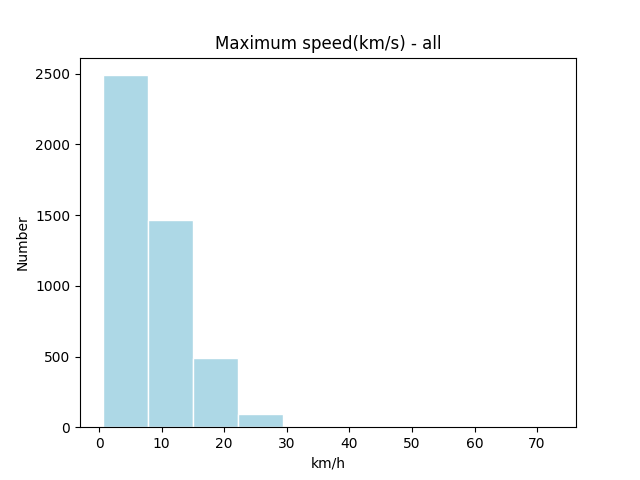
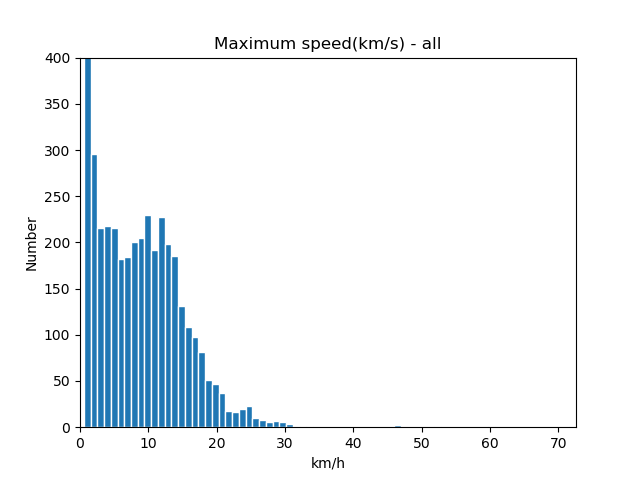
Time: 2019-09-20 11:07:19

diff --git a/preprocessing.py b/preprocessing.py
@@ -6,7 +6,7 @@
 @Github: https://github.com/isLouisHsu
 @E-mail: is.louishsu@foxmail.com
 @Date: 2019-09-19 11:01:14
-@LastEditTime: 2019-09-19 21:25:07
+@LastEditTime: 2019-09-20 10:30:51
 @Update: 
 '''
 import os
@@ -102,7 +102,7 @@ def calFeaturesOfSequence(seq, speedThresh=IDLETHRESH, maxIdle=180, dwtTime=1):
     index = np.r_[1, isIdle[1:] - isIdle[:-1]]      # 负跳变(-1)：从怠速起步
     idxStart = np.where(index == -1)[0][0]          # 起步时间
 
-    if idxStart > maxIdle:                          # 剪裁速度值序列
+    if idxStart > maxIdle:                          # 怠速时间超过180s，剪裁速度值序列
         seq = seq[maxIdle: ]             
         idxStart -= maxIdle
 
@@ -114,18 +114,13 @@ def calFeaturesOfSequence(seq, speedThresh=IDLETHRESH, maxIdle=180, dwtTime=1):
     accelerate = accelerate[idxStart:]
 
     feature = []
-    feature += [n_sec]                              # 时长(s)
-    feature += [n_dist]                             # 距离(m)
     
-    feature += [idxStart / n_sec]                   # 怠速时间比(%)
+    feature += [seq.max()]                          # 峰值速度(m/s)
+    feature += [n_dist / (n_sec - idxStart)]        # 平均速度(m/s)
+    feature += [seq.std()]                          # 速度标准差
 
     feature += [np.where(accelerate > 0.)[0].shape[0]]  # 加速时间(s)
     feature += [np.where(accelerate < 0.)[0].shape[0]]  # 减速时间(s)
-    
-    feature += [seq.max()]                          # 峰值速度(m/s)
-    feature += [n_dist / n_sec]                     # 平均运行速度(m/s)
-    feature += [n_dist / (n_sec - idxStart)]        # 平均速度(m/s)
-    feature += [seq.std()]                          # 速度标准差
 
     feature += [accelerate.max()]                   # 峰值加速度
     feature += [accelerate.min()]                   # 峰值减速度
@@ -137,6 +132,12 @@ def calFeaturesOfSequence(seq, speedThresh=IDLETHRESH, maxIdle=180, dwtTime=1):
     feature += [temp.mean()]                        # 平均减速度
     feature += [temp.std()]                         # 减速度标准差
     
+    feature += [n_sec - idxStart]                   # 运行时间(s)
+    # feature += [n_sec]                              # 时长(s)
+    # feature += [n_dist]                             # 距离(m)
+    feature += [idxStart / n_sec]                   # 怠速时间比(%)
+    feature += [n_dist / n_sec]                     # 平均运行速度(m/s)
+    
     feature = np.array(feature)
     return feature
 
@@ -144,6 +145,9 @@ if __name__ == "__main__":
 
     # filename = 'data/temp.xlsx'
 
+    plt.figure()
+    plt.title("Histogram of Speed")
+    
     for i in range(1, 4):
         
         filename = 'data/file%d.xlsx' % i
@@ -151,16 +155,29 @@ if __name__ == "__main__":
         print(i, data.shape)
         
         timestamp, gpsSpeed = data[:, 0], data[:, 1]
+
+        plt.subplot(3, 1, i)
+        plt.xlabel("km/h")
+        plt.ylabel("Number")
+        plt.hist(gpsSpeed, edgecolor='white')
+
         # gpsSpeed = dwtDecompose(gpsSpeed, 2)
 
-        gpsSpeedSeq = cutSpeedSequences(timestamp, gpsSpeed)
-        np.save('output/gpsSpeedSequences_file%d.npy' % i, gpsSpeedSeq)
+        print("Cutting sequences...")
+        if os.path.exists('output/gpsSpeedSequences_file%d.npy' % i):
+            gpsSpeedSeq = np.load('output/gpsSpeedSequences_file%d.npy' % i)
+        else:
+            gpsSpeedSeq = cutSpeedSequences(timestamp, gpsSpeed)
+            np.save('output/gpsSpeedSequences_file%d.npy' % i, gpsSpeedSeq)
         print("Number of sequences: %d, Mean of sequences' length: %f" 
                 % (len(gpsSpeedSeq), gpsSpeed.shape[0] / len(gpsSpeedSeq)))
 
+        print("Calculating features...")
         gpsSpeedFeat = np.stack(list(map(calFeaturesOfSequence, gpsSpeedSeq)), 0)
         np.save('output/gpsSpeedFeat_file%d.npy' % i, gpsSpeedFeat)
     
+    plt.savefig("images/gpsSpeed.png")
+    plt.show()
     ## 小波变换去噪
     # speedSeqDwt = dwtDecompose(speedSeq, dwtThresh)
     # plt.figure(); plt.plot(speedSeq); plt.figure(); plt.plot(speedSeqDwt); plt.show()

diff --git a/histClustering.py b/histClustering.py
@@ -6,14 +6,14 @@
 @Github: https://github.com/isLouisHsu
 @E-mail: is.louishsu@foxmail.com
 @Date: 2019-09-19 21:22:25
-@LastEditTime: 2019-09-20 08:30:50
+@LastEditTime: 2019-09-20 11:06:03
 @Update: 
 '''
 import os
 import numpy as np
 from matplotlib import pyplot as plt
 from sklearn.externals import joblib
-from sklearn.neighbors import KernelDensity
+from sklearn.mixture import GaussianMixture
 
 n_components = input("Please enter the number of components(default 6): ")
 n_components = 6 if n_components == '' else int(n_components)
@@ -28,14 +28,15 @@ for i in range(1, 4):
     features  += [np.load('output/gpsSpeedFeat_file%d.npy' % i)]
 sequences = np.concatenate(sequences, axis=0)
 features  = np.concatenate(features,  axis=0)
+
 # ------------------------------------------------------------
-
 y = pipeline.predict(features)
-
 n_classes, n_sequences = len(set(y)), 5
 fig = plt.figure(figsize=(n_classes*2, n_sequences*2))
 for i in range(n_classes):
     subseq = sequences[y == i]
+    if subseq.shape[0] < n_sequences:
+        continue
     for j in range(n_sequences):
         ax = fig.add_subplot(n_sequences, n_classes, n_classes*j + i + 1)
         ax.plot(subseq[j * 2])
@@ -44,24 +45,43 @@ for i in range(n_classes):
         if j == 0:
             ax.set_title("class %d" % (i))
 plt.savefig("images/sequences_kmeans.png")
-plt.show()
 
 # ------------------------------------------------------------
-maxSpeed = features[:, 5]
+index = 0
+maxSpeed = features[:, index]
 plt.figure()
 plt.title("Maximum speed(km/s) - all")
 plt.xlabel("km/h")
 plt.ylabel("Number")
-plt.hist(maxSpeed, facecolor='lightblue', edgecolor='white')
+plt.xlim(0, maxSpeed.max())
+plt.ylim(0, 400)
+n, bins, patches = plt.hist(maxSpeed, bins=int(maxSpeed.max() - maxSpeed.min()) + 1, edgecolor='white')
 plt.savefig("images/speed_hist.png")
 
 plt.figure(figsize=(5, 10))
 plt.title("Maximum speed(km/s) - classes")
 for i in range(n_classes):
-    subFeature = features[y == i]
+    subMaxSpeed = features[y == i][:, index]
     plt.subplot(n_classes, 1, i + 1)
     plt.xlabel("km/h")
     plt.ylabel("Number")
-    plt.hist(subFeature[:, 5], facecolor='lightblue', edgecolor='white')
+    plt.xlim(0, maxSpeed.max())
+    plt.ylim(0, 400)
+    n, bins, patches = plt.hist(subMaxSpeed, bins=int(subMaxSpeed.max() - subMaxSpeed.min()) + 1, edgecolor='white')
 plt.savefig("images/speed_hist_subseq.png")
+
+# ------------------------------------------------------------
+gmm = GaussianMixture(n_components=n_components)
+gmm.fit(maxSpeed.reshape(-1, 1))
+n, bins, patches = plt.hist(maxSpeed, bins=int(maxSpeed.max() - maxSpeed.min()) + 1, edgecolor='white')
+plt.figure()
+plt.title("Maximum speed(km/s) - GMM")
+plt.xlabel("km/h")
+plt.ylabel("P")
+for i in range(n_components):
+    mu, sigma = gmm.means_[i, 0], gmm.covariances_[i, 0]
+    y_ = np.exp(-0.5*np.square((bins-mu)/sigma))/(np.sqrt(2*np.pi)*sigma)
+    plt.plot(bins, y_)
+    plt.grid()
+plt.savefig("images/speed_hist_GMM.png")
 plt.show()

diff --git a/clustering.py b/clustering.py
@@ -6,7 +6,7 @@
 @Github: https://github.com/isLouisHsu
 @E-mail: is.louishsu@foxmail.com
 @Date: 2019-09-19 17:58:02
-@LastEditTime: 2019-09-20 08:31:12
+@LastEditTime: 2019-09-20 10:38:39
 @Update: 
 '''
 import os
@@ -14,11 +14,13 @@ import numpy as np
 import matplotlib.pyplot as plt
 
 from sklearn.pipeline import Pipeline
-from sklearn.preprocessing import StandardScaler
+from sklearn.preprocessing import StandardScaler, MinMaxScaler
 from sklearn.decomposition import PCA
 from sklearn.cluster import KMeans, DBSCAN
 from sklearn.model_selection import GridSearchCV
 from sklearn.externals import joblib
+
+SCALAR = MinMaxScaler
 
 speedFeats = []
 for i in range(1, 4):
@@ -29,14 +31,14 @@ n_samples, n_features = speedFeats.shape
 print("Shape of samples: ", speedFeats.shape)
 
 # ------------------------------------------------------------------
-steps = [('scaler', StandardScaler()), ('pca', PCA(n_components=n_features))]
+steps = [('scaler', SCALAR()), ('pca', PCA(n_components=n_features))]
 pipline = Pipeline(steps)
 pipline.fit(speedFeats)
 
 plt.figure(figsize=(8, 4))
 plt.title('Explained Variance(Eigen Values) Ratio of PCA')
 plt.subplot(121)
-plt.bar(list(range(n_features)), pipline.named_steps.pca.explained_variance_ratio_)
+plt.bar(list(range(n_features)), pipline.named_steps.pca.explained_variance_ratio_, edgecolor='white')
 plt.xlabel("Number of Components")
 plt.ylabel("Ratio of Explained Variance")
 plt.grid()
@@ -49,10 +51,10 @@ plt.savefig("images/pca.png")
 plt.show()
 
 # ------------------------------------------------------------------
-n_components = input("Please enter the number of components(default 5): ")
+n_components = input("Please enter the number of components(default 6): ")
 n_components = 6 if n_components == '' else int(n_components)
 steps = [
-        ('scaler', StandardScaler()), 
+        ('scaler', SCALAR()), 
         ('pca', PCA(n_components=n_components)), 
         ('kmeans', KMeans()),
     ]
@@ -78,7 +80,7 @@ plt.show()
 n_clusters = input("Please enter the number of clusters(default 5): ")
 n_clusters = 5 if n_clusters == '' else int(n_clusters)
 steps = [
-        ('scaler', StandardScaler()), 
+        ('scaler', SCALAR()), 
         ('pca', PCA(n_components=n_components)), 
         ('kmeans', KMeans(n_clusters=n_clusters)),
     ]
@@ -86,5 +88,13 @@ pipline = Pipeline(steps)
 pipline.fit(speedFeats)
 y = pipline.predict(speedFeats)
 np.save("output/seqLabels_pca%d_kmeans%d.npy" % (n_components, n_clusters), y)
-
 joblib.dump(pipline, "output/model_pca%d_kmeans%d.pkl" % (n_components, n_clusters))
+
+# -------------------------------------------------------------------
+cluster_centers_ = pipline.named_steps.kmeans.cluster_centers_
+components_      = pipline.named_steps.pca.components_
+mean_            = pipline.named_steps.pca.mean_
+clusterCenters  = cluster_centers_.dot(components_) + mean_
+clusterCenters  = pipline.named_steps.scaler.inverse_transform(clusterCenters)
+print(clusterCenters)
+pass
